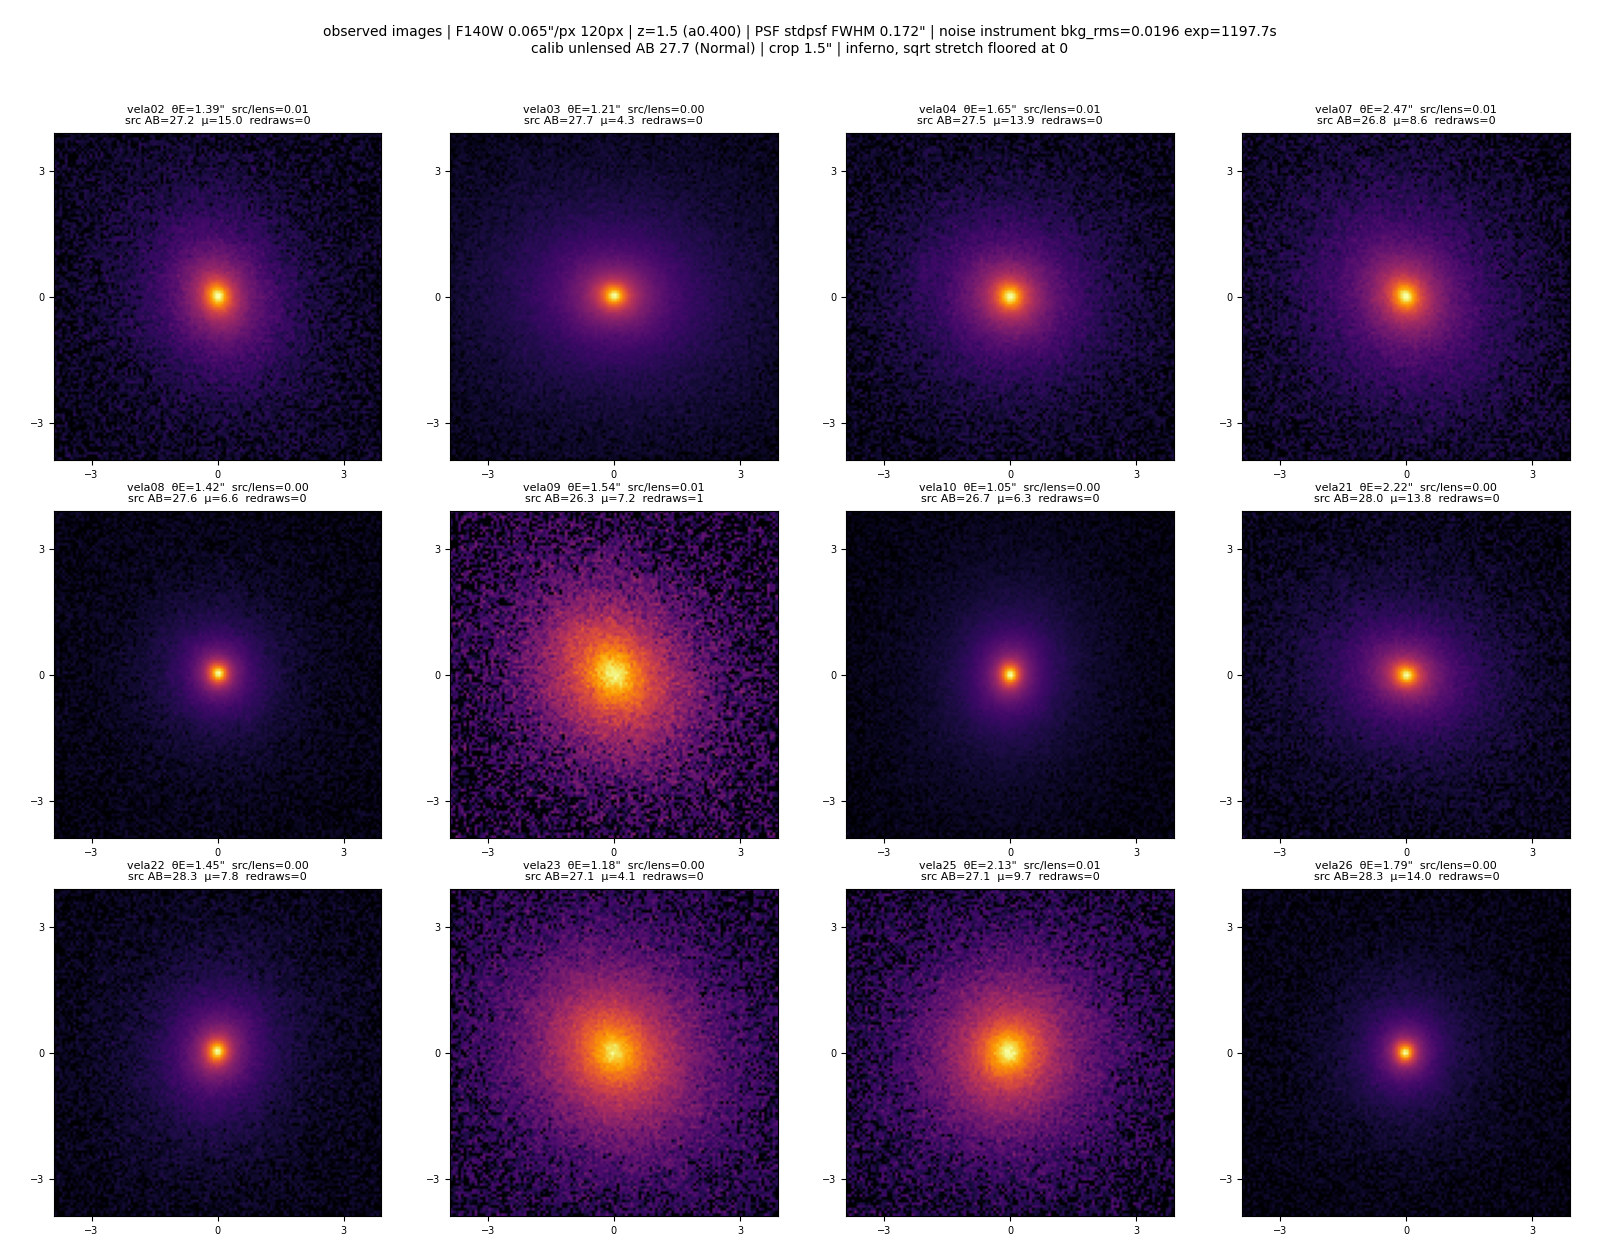
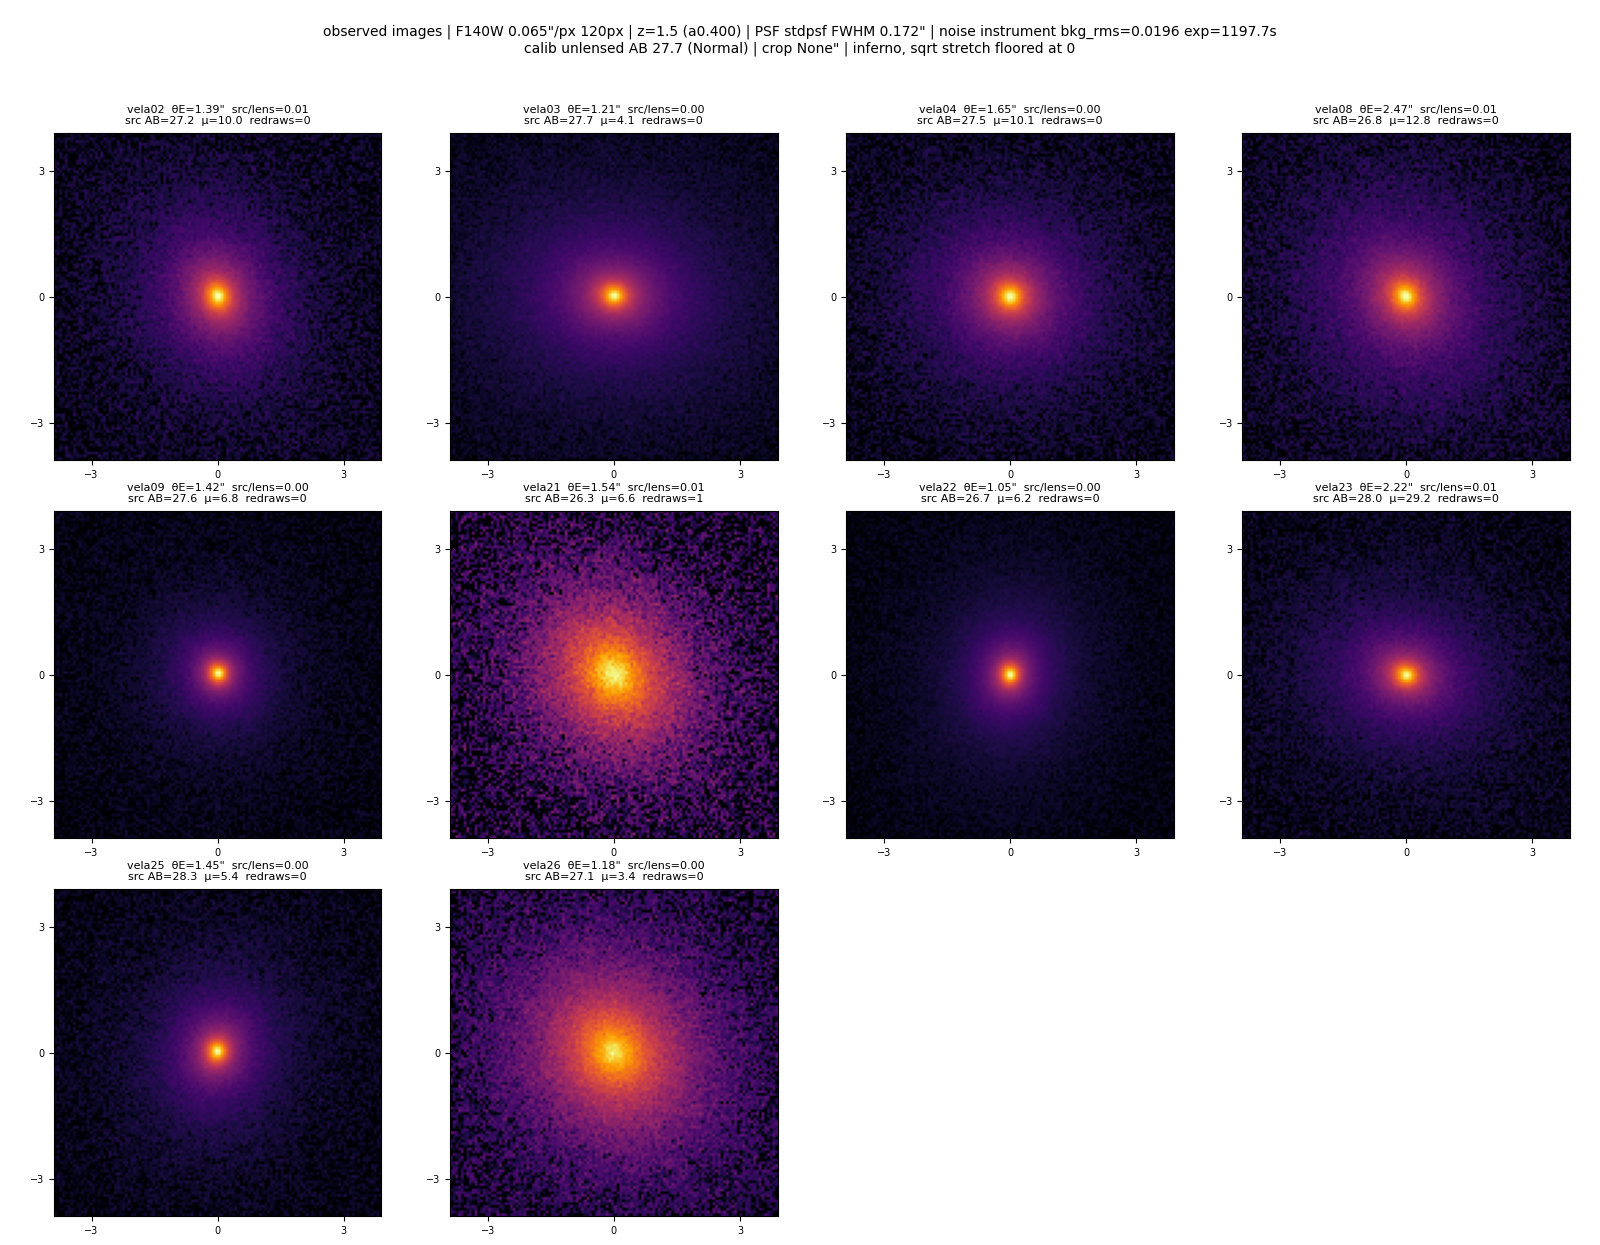
vela_f140w_v3: no source crop (user decision), vela10 dropped, vela07 side campaign
- campaign.yaml / campaign_unlensed_mag.yaml: source_crop_radius_arcsec null
  (source morphology left as delivered by VELA), vela10 removed (frame-cut
  companion), vela07 excluded from the main list because 12% of its flux lies
  beyond 3" so > 1% always lands outside the 120 px cutout (51/51 rejected).
- campaign_vela07_nocrop.yaml: vela07 alone with max_flux_outside 0.10
  (border rule unchanged); accepted on draw 2 at 4.8% outside, 0.68 sigma.
- Both sets + the vela07 set regenerated and plotted; no-crop set needed 8
  redraws (vela21 7). Gallery source panel shows the 5.8" half-frame when
  there is no crop and passes crop_taper_arcsec through.
- Lab log section, README row updated.

Claude-Session: https://claude.ai/code/session_01U1utULpjcbXb5xS4R2vAms

Changed region(s): [[0.5312, 0.702, 1.0, 0.9767], [0.3438, 0.0305, 0.6562, 0.061], [0.8438, 0.0916, 0.9375, 0.1221]]

diff --git a/experiments/vela_plot_dataset.py b/experiments/vela_plot_dataset.py
@@ -8,7 +8,7 @@ Two figures:
 * full gallery (one row per system): observed image, noiseless lensed source
   only (shows where the arcs sit relative to the cutout edge), the lensed source
   only with an independent realisation of the same noise model (so edge / crop
-  artefacts can be judged against their SNR), and the true (unlensed, cropped)
+  artefacts can be judged against their SNR), and the true (unlensed, preprocessed)
   source at its calibrated amplitude, with the calibration / cut-off numbers
   from generation.json in the titles;
 * compact grid of the observed images only (for slides / the design page).
@@ -54,6 +54,7 @@ def load_source_sb(source_dir, amp, pre):
     s = float(m["source_pixel_scale_arcsec"])
     sb = np.asarray(img / (s ** 2) * 1e-9 / float(m["photfnu_Jy"]))
     sb, _info = preprocess_source(sb, s, crop_radius_arcsec=pre.get("crop_radius_arcsec"),
+                                  crop_taper_arcsec=pre.get("crop_taper_arcsec"),
                                   recenter=bool(pre.get("recenter", False)))
     return sb * amp, s
 
@@ -157,10 +158,11 @@ def make_gallery(man, systems, out_png):
         ax = axs[i, 3]
         sb, sscale = load_source_sb(s["meta"]["truth_assets"]["vela_source_dir"], float(m["amp"]),
                                     man["extra"].get("source_preprocessing", {}))
-        crop, win = crop_source(sb, sscale)
+        crop_r = man["extra"].get("source_preprocessing", {}).get("crop_radius_arcsec")
+        crop, win = crop_source(sb, sscale, win=(crop_r + 0.1) if crop_r else 2.9)  # no crop: show the 5.8" half-frame
         im = show(ax, crop, [-win, win, -win, win])
         fig.colorbar(im, ax=ax, fraction=0.046, pad=0.03).set_label("cps / arcsec$^2$", fontsize=6)
-        ax.set_title(f"true source (as lensed: cropped, recentered) x amp={m['amp']:.2f}\n"
+        ax.set_title(f"true source (as lensed, recentered) x amp={m['amp']:.2f}\n"
                      f"unlensed AB={m['source_ab_mag_unlensed']:.2f}", fontsize=8)
         for a in axs[i]:
             a.set_xlabel("arcsec", fontsize=7)

diff --git a/docs/logs/vela-simulated-systems.md b/docs/logs/vela-simulated-systems.md
@@ -461,3 +461,56 @@ vela07 fails for its current truth (4.8% outside, 2.9σ border; its 11.6" frame
 holds outskirts that lens beyond 3.9"), and vela04/21/25 sit at the thresholds
 → higher redraw rate, i.e. a selection toward smaller θ_E for the extended
 sources, which the 1.5" taper avoids. Assessment only; nothing changed.
+
+
+## No-crop review set (2026-09-15, user decision) — UNCERTIFIED
+
+User: keeping arcs inside the 120 px frame is not a reason to modify the source
+morphology (that is what the systems test); keep VELA sources as delivered;
+drop vela10; a higher redraw rate is fine; show what happens with no crop.
+
+Config: `source_crop_radius_arcsec: null`, vela10 removed, everything else as
+before (both YAMLs). Prediction: no visible edges; redraw rate up for the
+extended sources; vela07 impossible at outside <= 1% (12% of its flux beyond 3").
+Result: vela07 rejected 51/51 (last: theta_E 1.32, 4.3% outside, 1.3 sigma border) ->
+excluded from the main YAML and run alone in `campaign_vela07_nocrop.yaml`
+(max_flux_outside 0.10, border rule unchanged): accepted on draw 2 with
+4.8% outside / 0.68 sigma border (first draw theta_E 1.39, 5.9%, 1.6 sigma);
+a full clumpy Einstein ring, theta_E 1.54, src/lens 0.58, mu 3.5.
+Main set, 10 sources, 8 redraws total (vela21: 7 — its rejections were 0.2–8.7%
+outside / 0.7–4.2 sigma border at theta_E 1.54–2.74; vela08: 1):
+
+| system | θ_E | amp | src/lens | μ | outside | border | redraws | src AB unl | arcs AB | lens AB | peak SB |
+|---|---|---|---|---|---|---|---|---|---|---|---|
+| vela02 | 1.39 | 1.63 | 0.540 | 10.0 | 0.04% | 0.10σ | 0 | 22.41 | 19.91 | 19.24 | 20.52 |
+| vela03 | 1.21 | 0.94 | 0.088 | 4.1 | 0.26% | 0.63σ | 0 | 22.49 | 20.96 | 18.32 | 21.08 |
+| vela04 | 1.65 | 1.14 | 0.099 | 10.1 | 1.00% | 0.06σ | 0 | 24.03 | 21.53 | 19.02 | 20.92 |
+| vela08 | 1.95 | 1.32 | 0.471 | 8.6 | 0.18% | 0.56σ | 1 | 22.19 | 19.85 | 19.04 | 20.75 |
+| vela09 | 1.42 | 0.39 | 0.447 | 6.8 | 0.02% | 0.08σ | 0 | 22.20 | 20.12 | 19.24 | 21.04 |
+| vela21 | 1.45 | 0.59 | 0.225 | 3.4 | 0.30% | 0.32σ | 7 | 21.78 | 20.44 | 18.82 | 21.04 |
+| vela22 | 1.05 | 1.15 | 0.362 | 6.2 | 0.01% | 0.02σ | 0 | 21.73 | 19.75 | 18.65 | 19.97 |
+| vela23 | 2.22 | 0.50 | 0.384 | 29.2 | 0.08% | 0.02σ | 0 | 23.79 | 20.13 | 19.09 | 21.46 |
+| vela25 | 1.45 | 1.23 | 0.540 | 5.4 | 0.12% | 0.16σ | 0 | 21.64 | 19.81 | 19.14 | 21.82 |
+| vela26 | 1.18 | 1.55 | 0.298 | 3.4 | 0.16% | 0.02σ | 0 | 21.68 | 20.37 | 19.05 | 20.39 |
+
+Plots inspected before the table (`dataset_{grid,gallery}.png`,
+`vela07_nocrop/`): no source-plane edge anywhere; vela02's companion lenses to
+a separate blob, vela09's second nucleus is a knot on the ring, vela25/26 show
+broad diffuse haloes; all arcs inside the frame (border <= 0.63 sigma, outside <=
+1.0%). Caveats: (i) removing sources shifts `seed_fold_index`, so the lens draws
+differ from the 12-source set (vela23 now theta_E 2.22", mu 29 — a giant ring);
+folding by source id would make sets comparable and is a small generator
+change if wanted. (ii) vela03's galaxy sits (1.1, 1.7)" off its VELA frame
+centre; recentering brings the frame edge to ~1.2" on one side — no edge is
+visible (border 0.63 sigma, the highest of the set), but it is the source to watch
+with other lens draws. (iii) The `source_crop_taper_arcsec` knob stays
+available but unused. Gallery source panel now shows the 5.8" half-frame and
+its title no longer says "cropped".
+
+Claims register additions:
+
+| claim | status | evidence |
+|---|---|---|
+| uncropped sources show no source-plane edge in the lensed images (10 sources) | VERIFIED by inspection | `dataset_gallery.png` |
+| vela07 cannot satisfy outside <= 1% uncropped at any theta_E in the prior | VERIFIED (51/51 rejected; 12% of flux beyond 3") | generation log, radial table above |
+| no-crop redraw rate: 8 redraws / 10 systems (vela21 7) | MEASURED (n=1 rep) | generation.json |

diff --git a/src/gigalens_research/simtests/README.md b/src/gigalens_research/simtests/README.md
@@ -78,7 +78,7 @@ python -m gigalens_research.simtests status campaign.yaml
 | `hundred_sersic_v1` | `experiments/hundred_systems_GL2/campaign.yaml` | Convergence test: 100 EPL+Shear+Sérsic systems, MAP→SVI→HMC |
 | `shapelets_systematics_v1` | `experiments/shapelets_systematics/campaign.yaml` | Systematics: Vela sources, shapelet inference, sweep over `n_max` |
 | `vela_revised_v2` | `experiments/vela_revised_v2/campaign.yaml` | Fresh Vela systems simulated by the `vela_simulated` generator (scene API): YAML-tunable truth prior, STScI ePSF, instrument-derived noise, source-to-lens flux calibration, cut-off rejection |
-| `vela_f140w_v3` | `experiments/vela_f140w_v3/campaign.yaml` | Same generator at the DESI Strong Lens Foundry V setup (group decisions 2026-09-14): WFC3/IR F140W, 0.065"/px, 120 px, STDPSF WFC3IR, 1197.7 s, θ_E LogNormal(1.5, 0.25), source calibrated to the Foundry peak surface brightness (`peak_sb`); `campaign_unlensed_mag.yaml` = the magnification route |
+| `vela_f140w_v3` | `experiments/vela_f140w_v3/campaign.yaml` | Same generator at the DESI Strong Lens Foundry V setup (group decisions 2026-09-14): WFC3/IR F140W, 0.065"/px, 120 px, STDPSF WFC3IR, 1197.7 s, θ_E LogNormal(1.5, 0.25), source calibrated to the Foundry peak surface brightness (`peak_sb`); `campaign_unlensed_mag.yaml` = the magnification route No source crop (2026-09-15): VELA morphology as delivered; vela10 dropped; vela07 in `campaign_vela07_nocrop.yaml` (10% outside-flux limit). |
 
 ## Extending the framework
 
